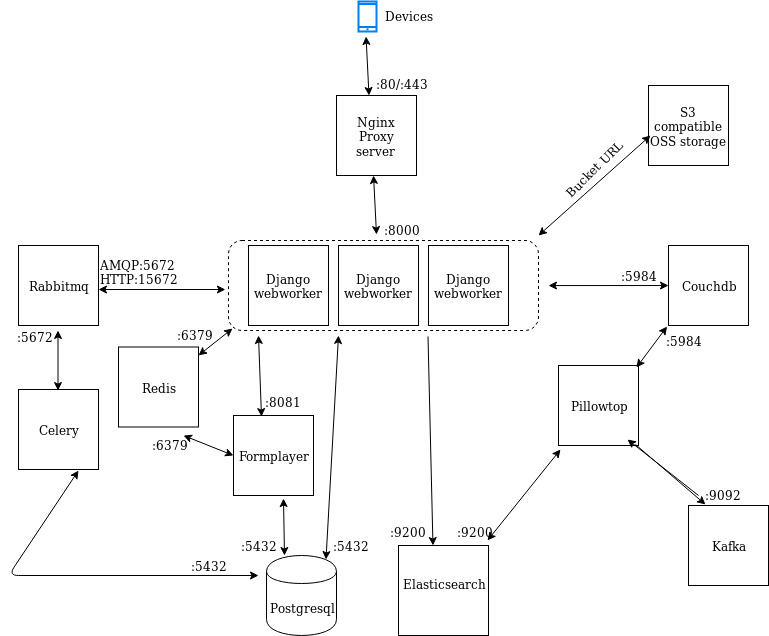
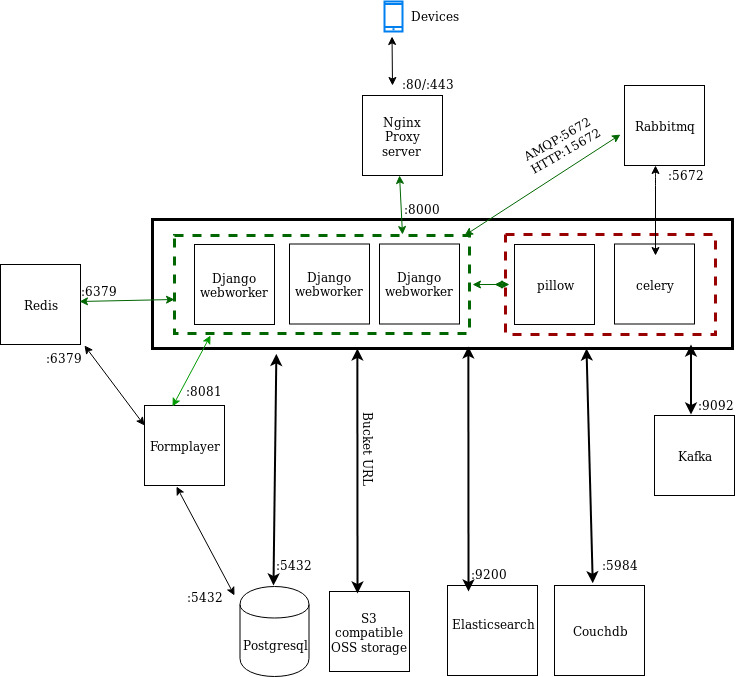
UPdated

diff --git a/MutliVm/Readm.md b/MutliVm/Readm.md
@@ -19,7 +19,8 @@
 -   Asynchronous processors pick up events from Kafka handle ETL into ElasticSearch, Postgres report tables, and any other events.
 
 
-In this doc you'll see an Basic overview of different Component interaction and what their purpose is in commcareHQ
+In this doc you'll see an Basic overview of different Component interaction and what their purpose is in commcareHQ.
+<sub><sup>Notes:- Application ports  mentioned in the Architecture is configurable. The servers mentioned inside the box is just for  simplify the illustration.For example a thick black box and a thick Black arrow pointing to postgresql means all the services inside the thick Black box will be connecting to postgresql. </sup></sub>
 
 ##### A Basic Architecture will look like this.
   
@@ -47,10 +48,18 @@ Commcare Processes
   * RabbitMQ
   * Shared Directory
   
+  
  **Nginx:-** Entry point for the stack involved in the commcarehq , This will act as a load balancer/reverse proxy and forward the user request to the webworkers.
  
   **Django Webworker:-** This is where the python code runs and interact with different subsystem depending on the user requests. It handles almost all the logic of commcarehq
  
+ **Pillow:-** it Takes changes to primary data(couchdDB) and updates secondary data sources(Postgresql,Elasticsearch).Pillow detects changes in couchdb with change_feed feature available in couchdb. it pushes the changes in kafka topics, from there some other pilow service read the changes and applies necessaries changes to postgresql or elasticsearch.
+
+**Celery:**- This machines runs the celery process. [Celery](http://www.celeryproject.org/) consumes from rabbitmq queue and process them. Anything which usually takes time like sending an email/sms would be run through celery systems.
+
+######Notes:-
+Django Webworker,Celery and Pillowtop has same codebase [commcarehq](https://github.com/dimagi/commcare-hq/). They just run different piece of code depending on which server they are running on.The Confiuration file for these and usage is [here](https://github.com/dimagi/commcare-hq/blob/master/localsettings.example.py).
+
  **Redis:-** Used for caching the frequent needed information to reduce round-trips and increase the response time. It is also used for locking and User sessions.
 
 **Formplayer:-** Formplayer is a Java service that allows us to use applications on the web instead of on a 
@@ -58,15 +67,11 @@ mobile device. Formplayer cache session instance in redis and stores session ins
 
 **RabbitMQ :**- it runs RabbitMQ which is an open source message broker software. It accepts messages from producers, and delivers them to consumers. It acts like a middleman which can be used to reduce loads and delivery times taken by web application servers.
 
-**Celery:**- This machines runs the celery process. [Celery](http://www.celeryproject.org/) consumes from rabbitmq queue and process them. Anything which usually takes time like sending an email/sms would be run through celery systems.
-
 **Postgresql :-** This is the Primary Database for commcarehq . All the forms,user,application etc info are stored in this DB. You can have different dbs for report,sync,warehouse stuff either in the same machine or in the different machines. you just have to provide the connection info in settings of django webworker.
 
 **CouchDB:-**  It's running couchdb which is a no sql databse and also our legacy Primary datasource. Mostly it contains user related info.
 
 **Kafka :-** Kafka is a distributed streaming platform that is used for  publish and subscribe to streams of records. kafka  replicates topic log partitions to multiple servers. Any Changes that happens on couchdb is feed to kafka topics systems from there it's consumed by the pillowtop servers.
-
-**Pillowtop:-** it Takes changes to primary data(couchdDB) and updates secondary data sources(Postgresql,Elasticsearch).Pillow detects changes in couchdb with change_feed feature available in couchdb. it pushes the changes in kafka topics, from there some other pilow service read the changes and applies necessaries changes to postgresql or elasticsearch.
 
 **Elasticsearch:-** It's our secondary analytics data. It's great for searching and querying. It's used for reports,Users,forms etc.
 
